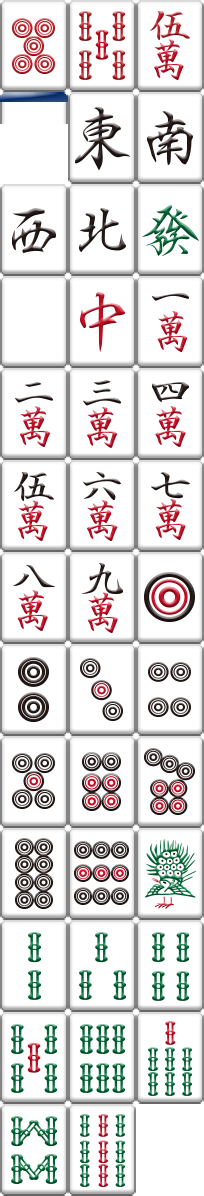
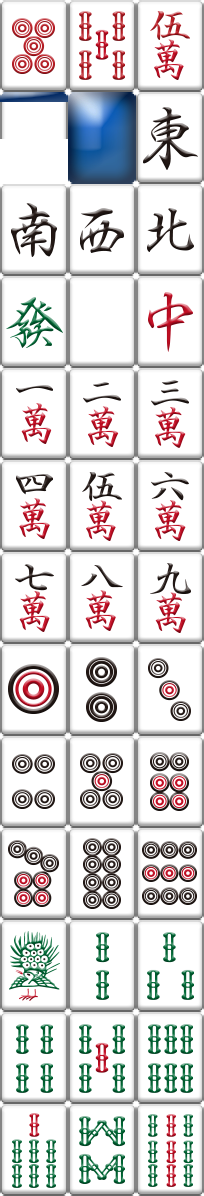
add obverse side

diff --git a/app/src/main/java/dev/yuriel/mahjan/views/MainGameRootViews.kt b/app/src/main/java/dev/yuriel/mahjan/views/MainGameRootViews.kt
@@ -2,10 +2,16 @@ package dev.yuriel.mahjan.views
 
 import com.badlogic.gdx.Gdx
 import com.badlogic.gdx.graphics.GL20
+import com.badlogic.gdx.graphics.Texture
+import com.badlogic.gdx.graphics.g2d.Sprite
+import com.badlogic.gdx.scenes.scene2d.ui.Image
+import com.badlogic.gdx.scenes.scene2d.utils.SpriteDrawable
+import dev.yuriel.kotmvp.Dev
 import dev.yuriel.kotmvp.views.Views
 import dev.yuriel.mahjan.MockData4Test
 import dev.yuriel.mahjan.group.HandsGroup
 import dev.yuriel.mahjan.group.LeftSideGroup
+import dev.yuriel.mahjan.group.OpposideGroup
 import dev.yuriel.mahjan.group.RightSideGroup
 import dev.yuriel.mahjan.stage.ViewStage
 
@@ -13,18 +19,26 @@ import dev.yuriel.mahjan.stage.ViewStage
  * Created by yuriel on 8/5/16.
  */
 class MainGameRootViews: Views() {
+    private val desk = Image()
     private val handGroup = HandsGroup()
     private val leftGroup = LeftSideGroup()
     private val rightGroup = RightSideGroup()
+    private val oppoGroup = OpposideGroup()
 
     private val layoutHelper = LayoutHelper()
 
     val rootStage = ViewStage()
 
     fun inject() {
+        //desk.drawable = SpriteDrawable(Sprite(Texture("table.jpg")))
+        desk.width = Dev.getDefaultWidth()
+        desk.height = Dev.getDefaultHeight()
+
+        rootStage.addActor(desk)
         rootStage.addActor(handGroup)
         rootStage.addActor(leftGroup)
         rootStage.addActor(rightGroup)
+        rootStage.addActor(oppoGroup)
 
         layoutHelper.calculate()
         setPosition()
@@ -35,6 +49,7 @@ class MainGameRootViews: Views() {
         handGroup.updateList(MockData4Test.instance.getHaiList4Test())
         leftGroup.updateList(MockData4Test.instance.getHaiList4Test())
         rightGroup.updateList(MockData4Test.instance.getHaiList4Test())
+        oppoGroup.updateList(MockData4Test.instance.getHaiList4Test())
     }
 
     fun clearScreen() {
@@ -43,6 +58,7 @@ class MainGameRootViews: Views() {
     }
 
     fun render() {
+        drawDesk()
         rootStage.active = true
         rootStage.render()
     }
@@ -58,5 +74,11 @@ class MainGameRootViews: Views() {
                 layoutHelper.handsLeftLayout.top())
         rightGroup.setPosition(layoutHelper.handsRightLayout.origin.x,
                 layoutHelper.handsRightLayout.origin.y)
+        oppoGroup.setPosition(layoutHelper.handsOppoLayout.right(),
+                layoutHelper.handsOppoLayout.origin.y)
+    }
+
+    private fun drawDesk() {
+
     }
 }

diff --git a/app/src/main/java/dev/yuriel/mahjan/views/LayoutHelper.kt b/app/src/main/java/dev/yuriel/mahjan/views/LayoutHelper.kt
@@ -9,13 +9,13 @@ import dev.yuriel.kotmvp.bases.getScreenLayout
  * Created by yuriel on 8/7/16.
  */
 class LayoutHelper {
-    private val X = Dev.UX
-    private val Y = Dev.UY
+    private val U = Dev.U
     private val SCREEN_LAYOUT = getScreenLayout()
     val ORIGIN = Pair(0F, 0F)
-    val handsBottomLayout = LayoutPosition(0F, 0F, TILE_WIDTH * X * 14.5F, TILE_HEIGHT * Y)
-    val handsLeftLayout = LayoutPosition(0F, 0F, SIDE_TILE_HEIGHT * X, SIDE_TILE_WIDTH * Y * 14.5F)
-    val handsRightLayout = LayoutPosition(0F, 0F, SIDE_TILE_HEIGHT * X, SIDE_TILE_WIDTH * Y * 14.5F)
+    val handsBottomLayout = LayoutPosition(0F, 0F, TILE_WIDTH * U * 14.5F, TILE_HEIGHT * U)
+    val handsLeftLayout = LayoutPosition(0F, 0F, SIDE_TILE_HEIGHT * U, SIDE_TILE_WIDTH * U * 14.5F)
+    val handsRightLayout = LayoutPosition(0F, 0F, SIDE_TILE_HEIGHT * U, SIDE_TILE_WIDTH * U * 14.5F)
+    val handsOppoLayout = LayoutPosition(0F, 0F, OBVERSE_TILE_WIDTH * U * 14.5F, OBVERSE_TILE_HEIGHT * U)
     val operationScreen = SCREEN_LAYOUT.copy()
 
 
@@ -24,7 +24,7 @@ class LayoutHelper {
         operationScreen.above(handsBottomLayout)
         operationScreen.origin.y = handsBottomLayout.size.height
         operationScreen.size.height -= handsBottomLayout.size.height
-        operationScreen.setPadding(30 * Dev.U)
+        operationScreen.setPadding(30F * Dev.U)
 
         handsLeftLayout.alignLeftOf(operationScreen)
         handsLeftLayout.alignBottomOf(operationScreen)
@@ -32,11 +32,14 @@ class LayoutHelper {
         handsRightLayout.alignRightOf(operationScreen)
         handsRightLayout.alignBottomOf(operationScreen)
 
+        handsOppoLayout.alignTopOf(operationScreen)
+        handsOppoLayout.centerHorizontal(operationScreen)
+
         hack()
     }
 
     private fun hack() {
-        handsLeftLayout.origin.y -= SIDE_TILE_WIDTH * Y / 2F
-        handsRightLayout.origin.y += SIDE_TILE_WIDTH * Y / 2F
+        handsLeftLayout.origin.y -= SIDE_TILE_WIDTH * U / 2F
+        handsRightLayout.origin.y += SIDE_TILE_WIDTH * U / 2F
     }
 }

diff --git a/app/src/main/java/dev/yuriel/kotmvp/Dev.kt b/app/src/main/java/dev/yuriel/kotmvp/Dev.kt
@@ -32,26 +32,28 @@ object Dev {
     const val MIN_WIDTH = MIN_WEIGHT * MAX_X
     const val MIN_HEIGHT = MIN_WEIGHT * MAX_Y
 
-    var defaultWeight = MIN_WEIGHT
-    val DEFAULT_WIDTH = defaultWeight * MAX_X
-    val DEFAULT_HEIGHT = defaultWeight * MAX_Y
+//    val DEFAULT_WIDTH = getDefaultWeight() * MAX_X
+//    val DEFAULT_HEIGHT = getDefaultWeight() * MAX_Y
 
-    private var width = DEFAULT_WIDTH
-    private var height = DEFAULT_HEIGHT
+    private var width = getDefaultWidth()
+    private var height = getDefaultHeight()
 
-    val UX: Float by lazy {
-        val width = if (width > height) width else height
-        width.toFloat() / MAX_X
-    }
+//    val UX: Float by lazy {
+//        val width = if (width > height) width else height
+//        width.toFloat() / MAX_X
+//    }
+//
+//    val UY: Float by lazy {
+//        val height = if (width < height) width else height
+//        height.toFloat() / MAX_Y
+//    }
+    val UX: Float = getDefaultWeight().toFloat()
+    val UY: Float = getDefaultWeight().toFloat()
+    val U: Float = getDefaultWeight().toFloat()
 
-    val UY: Float by lazy {
-        val height = if (width < height) width else height
-        height.toFloat() / MAX_Y
-    }
+    //val U: Float by lazy { (UX + UY) / 2F }
 
-    val U: Float by lazy { (UX + UY) / 2F }
-
-    val cam = OrthographicCamera(DEFAULT_WIDTH, DEFAULT_HEIGHT)
+    val cam = OrthographicCamera(getDefaultWidth(), getDefaultHeight())
     val fillViewport = FillViewportImpl(cam)
     val fitViewport = FitViewportImpl(cam)
     val stretchViewport = StretchViewportImpl(cam)
@@ -72,5 +74,17 @@ object Dev {
 
     fun setDefaultViewport() {
         setViewport(defaultViewport)
+    }
+
+    fun getDefaultWeight(): Int {
+        return MIN_WEIGHT
+    }
+
+    fun getDefaultWidth(): Float {
+        return getDefaultWeight() * MAX_X
+    }
+
+    fun getDefaultHeight(): Float {
+        return getDefaultWeight() * MAX_Y
     }
 }

diff --git a/app/src/main/java/dev/yuriel/kotmvp/bases/DataTypes.kt b/app/src/main/java/dev/yuriel/kotmvp/bases/DataTypes.kt
@@ -7,7 +7,8 @@ import dev.yuriel.kotmvp.Dev
  * Created by yuriel on 8/7/16.
  */
 
-fun getScreenLayout() = LayoutPosition(0F, 0F, Dev.MAX_X * Dev.UX, Dev.MAX_Y * Dev.UY)
+fun getScreenLayout() = LayoutPosition(0F, 0F, Dev.getDefaultWidth(), Dev.getDefaultHeight())
+fun getOperateScreenLayout() {}
 
 data class LayoutPosition(var size: LayoutSize, var origin: LayoutOrigin) {
     constructor(x: Float, y: Float, width: Float,height: Float): this(Pair(width, height), Pair(x, y))
@@ -74,6 +75,10 @@ data class LayoutPosition(var size: LayoutSize, var origin: LayoutOrigin) {
 
     fun top(): Float {
         return origin.y + size.height
+    }
+
+    fun right(): Float {
+        return origin.x + size.width
     }
 }
 

diff --git a/app/src/main/java/dev/yuriel/mahjan/actor/OppoTilePlaceHolderActor.kt b/app/src/main/java/dev/yuriel/mahjan/actor/OppoTilePlaceHolderActor.kt
@@ -1,0 +1,18 @@
+package dev.yuriel.mahjan.actor
+
+import com.badlogic.gdx.graphics.g2d.Batch
+import dev.yuriel.kotmvp.Dev
+import dev.yuriel.kotmvp.OBVERSE_TILE_HEIGHT
+import dev.yuriel.kotmvp.OBVERSE_TILE_WIDTH
+
+/**
+ * Created by yuriel on 8/7/16.
+ */
+class OppoTilePlaceHolderActor : TileActor() {
+    override fun getSize() = Pair(OBVERSE_TILE_WIDTH * Dev.U, OBVERSE_TILE_HEIGHT * Dev.U)
+
+    override fun onDraw(batch: Batch?, parentAlpha: Float) {
+        if (null == obverse) return
+        batch?.draw(obverse, - position * width, 0F, width, height)
+    }
+}

diff --git a/app/src/main/java/dev/yuriel/kotmvp/consts.kt b/app/src/main/java/dev/yuriel/kotmvp/consts.kt
@@ -12,8 +12,13 @@ const val GONE = View.GONE
 const val TILE_WIDTH = 33F * 1.2F
 const val TILE_HEIGHT = 45F * 1.2F
 
-const val SIDE_TILE_WIDTH = TILE_WIDTH * 0.45F
-const val SIDE_TILE_HEIGHT = TILE_HEIGHT * 0.45F / 3F
+private const val SCALE = 0.45F
+
+const val OBVERSE_TILE_WIDTH = TILE_WIDTH * SCALE
+const val OBVERSE_TILE_HEIGHT = TILE_HEIGHT * SCALE
+
+const val SIDE_TILE_WIDTH = TILE_WIDTH * SCALE
+const val SIDE_TILE_HEIGHT = TILE_HEIGHT * SCALE / 2F
 
 const val LEFT_SIDE = 0x10
 const val RIGHT_SIDE = 0x20

diff --git a/app/src/main/java/dev/yuriel/mahjan/model/TileWrapper.kt b/app/src/main/java/dev/yuriel/mahjan/model/TileWrapper.kt
@@ -19,6 +19,10 @@ class TileWrapper() {
 
     var back: TextureRegion? = null
         private set
+
+    var obverse: TextureRegion? = null
+        private set
+
     var display: Int = 0
         set(value) {
             field = field and value
@@ -43,6 +47,7 @@ class TileWrapper() {
         if (null == hai) return null
         TileMgr.load()
         back = TileMgr.getBack()
+        obverse = TileMgr.getObverse()
         return TileMgr[hai]
     }
 }

diff --git a/app/src/main/java/dev/yuriel/mahjan/group/OpposideGroup.kt b/app/src/main/java/dev/yuriel/mahjan/group/OpposideGroup.kt
@@ -1,0 +1,11 @@
+package dev.yuriel.mahjan.group
+
+import dev.yuriel.mahjan.actor.OppoTilePlaceHolderActor
+
+/**
+ * Created by yuriel on 8/8/16.
+ */
+class OpposideGroup: TileGroup<OppoTilePlaceHolderActor>() {
+    override fun getOrigin(): Pair<Float, Float> = Pair(0F, 0F)
+    override fun factory(): OppoTilePlaceHolderActor = OppoTilePlaceHolderActor()
+}

diff --git a/app/src/main/java/dev/yuriel/mahjan/actor/TileActor.kt b/app/src/main/java/dev/yuriel/mahjan/actor/TileActor.kt
@@ -30,6 +30,9 @@ abstract class TileActor: BaseActor(), Comparable<TilePlaceHolderActor> {
         get() = tile?.back
         private set
 
+    var obverse: TextureRegion? = null
+        get() =tile?.obverse
+
     var tile: TileWrapper? = null
         set(value) {
             field = value

diff --git a/app/src/main/java/dev/yuriel/kotmvp/viewports/StretchViewportImpl.kt b/app/src/main/java/dev/yuriel/kotmvp/viewports/StretchViewportImpl.kt
@@ -7,4 +7,4 @@ import dev.yuriel.kotmvp.Dev
 /**
  * Created by yuriel on 8/7/16.
  */
-class StretchViewportImpl(cam: Camera): StretchViewport(Dev.DEFAULT_WIDTH, Dev.DEFAULT_HEIGHT, cam)
+class StretchViewportImpl(cam: Camera): StretchViewport(Dev.getDefaultWidth(), Dev.getDefaultHeight(), cam)

diff --git a/app/src/main/java/dev/yuriel/kotmvp/viewports/ExtendViewportImpl.kt b/app/src/main/java/dev/yuriel/kotmvp/viewports/ExtendViewportImpl.kt
@@ -7,4 +7,4 @@ import dev.yuriel.kotmvp.Dev
 /**
  * Created by yuriel on 8/7/16.
  */
-class ExtendViewportImpl(cam: Camera): ExtendViewport(Dev.DEFAULT_WIDTH, Dev.DEFAULT_HEIGHT, cam)
+class ExtendViewportImpl(cam: Camera): ExtendViewport(Dev.getDefaultWidth(), Dev.getDefaultHeight(), cam)

diff --git a/app/src/main/java/dev/yuriel/kotmvp/viewports/FillViewportImpl.kt b/app/src/main/java/dev/yuriel/kotmvp/viewports/FillViewportImpl.kt
@@ -7,4 +7,4 @@ import dev.yuriel.kotmvp.Dev
 /**
  * Created by yuriel on 8/7/16.
  */
-class FillViewportImpl(cam: Camera): FillViewport(Dev.DEFAULT_WIDTH, Dev.DEFAULT_HEIGHT, cam)
+class FillViewportImpl(cam: Camera): FillViewport(Dev.getDefaultWidth(), Dev.getDefaultHeight(), cam)
